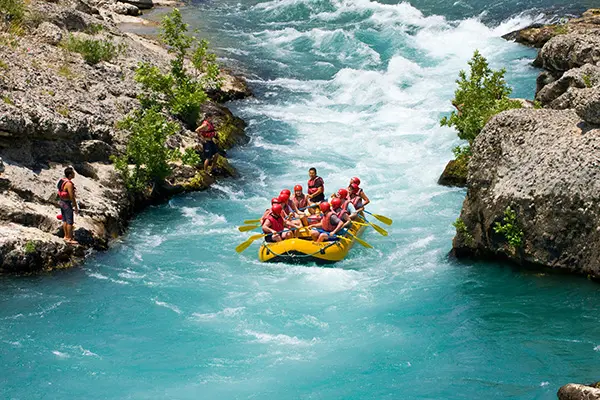
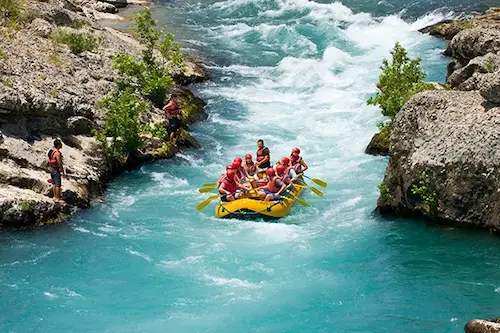
Changed All IMage To WebP

diff --git a/wwr/about.html b/wwr/about.html
@@ -19,7 +19,7 @@
 <body>
 
   <header>
-    <img src="images/wwr-logo.png" alt="Our Rafting Company's Logo'">
+    <img src="images/wwr-logo.webp" alt="Our Rafting Company's Logo'">
     <nav>
       <a href="index.html">Home</a>
       <a href="about.html">About Us</a>
@@ -31,7 +31,7 @@
 
   <main>
     <div class="hero">
-      <img src="images/hero-image-1.jpg" alt="Page Background Image">
+      <img src="images/hero-image-1.webp" alt="Page Background Image">
       <h1>White Water Rafting Adventures</h1>
 
       <article>
@@ -50,7 +50,7 @@
       <p>Lorem ipsum dolor sit amet consectetur, adipisicing elit. Dolores consequatur dolor ipsum quibusdam
         voluptatem aspernatur blanditiis iure cumque rerum. Hic dolore dolor facere doloribus quam vel suscipit debitis.
       </p>
-      <img src="images/hero-image-1.jpg" alt="">
+      <img src="images/hero-image-1.webp" alt="">
       <p>Lorem ipsum dolor sit amet consectetur, adipisicing elit. Dolores consequatur dolor ipsum quibusdam
         voluptatem aspernatur blanditiis iure cumque rerum. Hic dolore dolor facere doloribus quam vel suscipit debitis.
       </p>
@@ -65,7 +65,7 @@
       </figure>
 
       <figure>
-        <img src="images/wwr-image-2.jpg" alt="adventure image-2">
+        <img src="images/wwr-image-2.webp" alt="adventure image-2">
         <figcaption>Farin Ruwa Rapids</figcaption>
       </figure>
 
